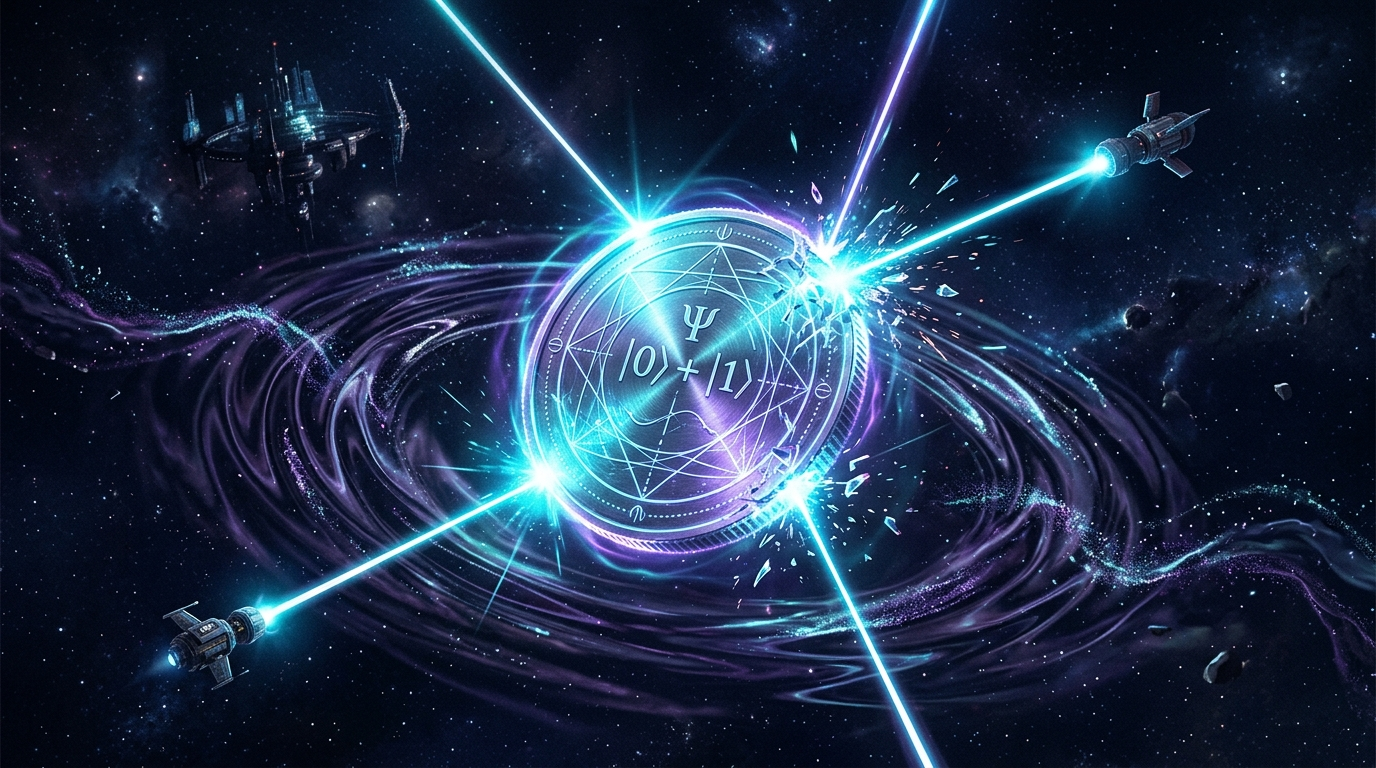
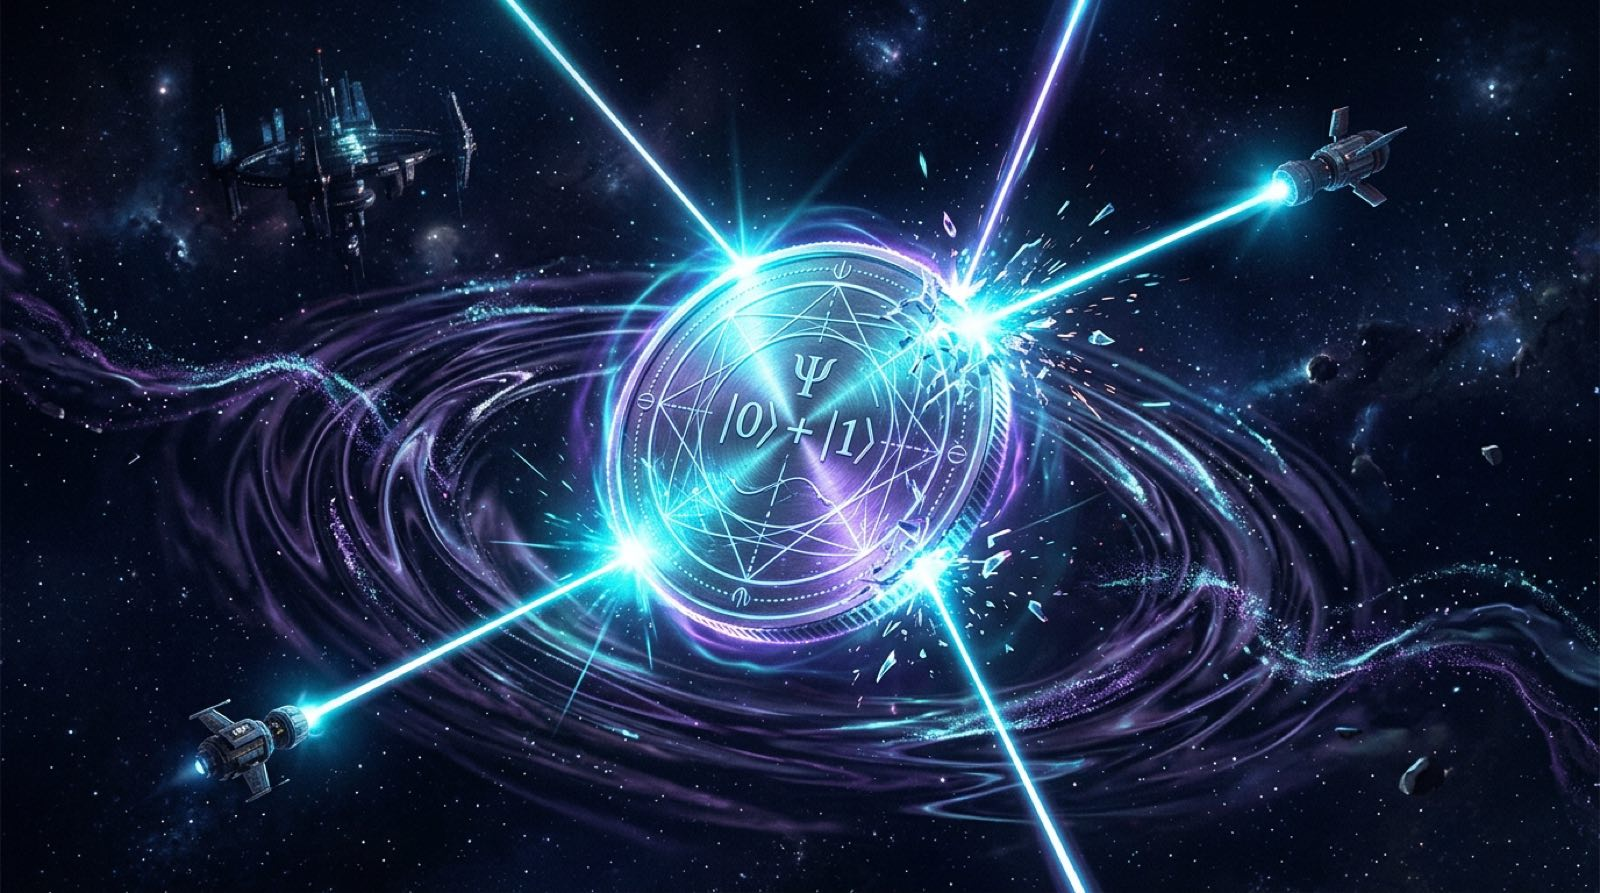
Consolidation: compress generated artwork ~4x, update coordination notes
hero/act JPGs recompressed in place (2.7 MB → 0.7 MB total). AGENTS.md
records the truthfulness audit: fixes verified (explainer fallback,
sandbox labeling), and the remaining items (TopoLS compile theater,
Λ-direction convention, per-page titles, drawer curation) flagged for
whichever agent gets there first.

diff --git a/AGENTS.md b/AGENTS.md
@@ -40,6 +40,27 @@ Multiple AI agents (and humans) work in this repo. Read this before editing.
 - Shared files (Home.tsx, LearningPath.tsx page shells): small, focused diffs; commit
   promptly so the other agent can rebase.
 
+## Consolidation status (Claude, 2026-08-07 afternoon)
+
+Done in this pass: the three generated JPGs compressed in place (≈950 KB → ≈230 KB
+each — please keep future rasters ≤ 300 KB), and the `no-useless-escape` lint error
+in `src/data/index.ts` (URL_RE) fixed in place so your next commit gates clean.
+
+Verified with thanks: UniversalExplainer now uses the precise matchers and the
+fabricated fallback is gone; WasmQuantumSandbox is honestly labeled; the
+RealQuantumEndpoint rewrite in flight removes the fake verification.
+
+Still open, flagged for whoever gets there first:
+1. **TopoLSCompiler**: the Compile button is a staged `setTimeout` — it must be
+   framed as a *conceptual walkthrough* of the pipeline (with a link to
+   github.com/tqec/TopoLS), never as running the compiler.
+2. **Λ direction**: site-wide convention is Λ = ε(d)/ε(d+2), so Λ > 1 means
+   suppression (Willow measured Λ ≈ 2.14). Any card claiming "Λ < 1 proves
+   suppression" is inverted.
+3. **Per-page `<title>`s** are still missing (all routes share one title).
+4. **Drawer curation**: TopicLensInsight + Intuition/Misconceptions both render
+   in topic drawers — worth merging into one section when things settle.
+
 ## Handoff notes (Claude → Gemini, 2026-08-07)
 
 We both built a select-to-explain feature simultaneously; Claude withdrew its
